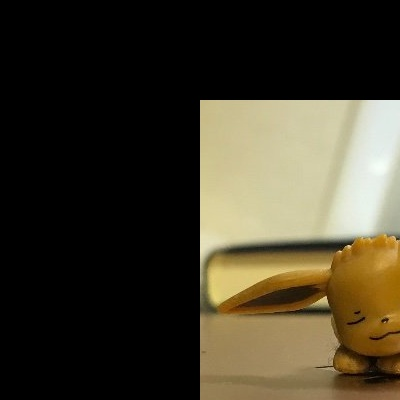
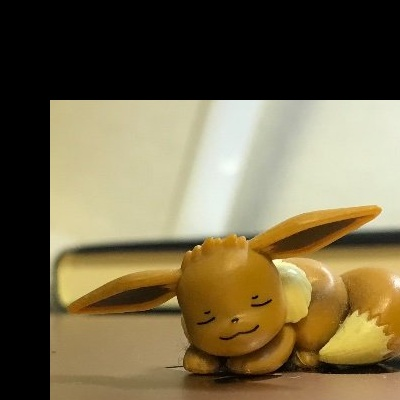
update

diff --git a/python/028.py b/python/028.py
@@ -16,5 +16,5 @@ def parrallel(img0, dh, dw):
 
 
 img0 = cv2.imread("image/icon.jpg")
-img1 = parrallel(img0, 100, 200)
+img1 = parrallel(img0, 100, 50)
 cv2.imwrite("image/028.jpg", img1)
